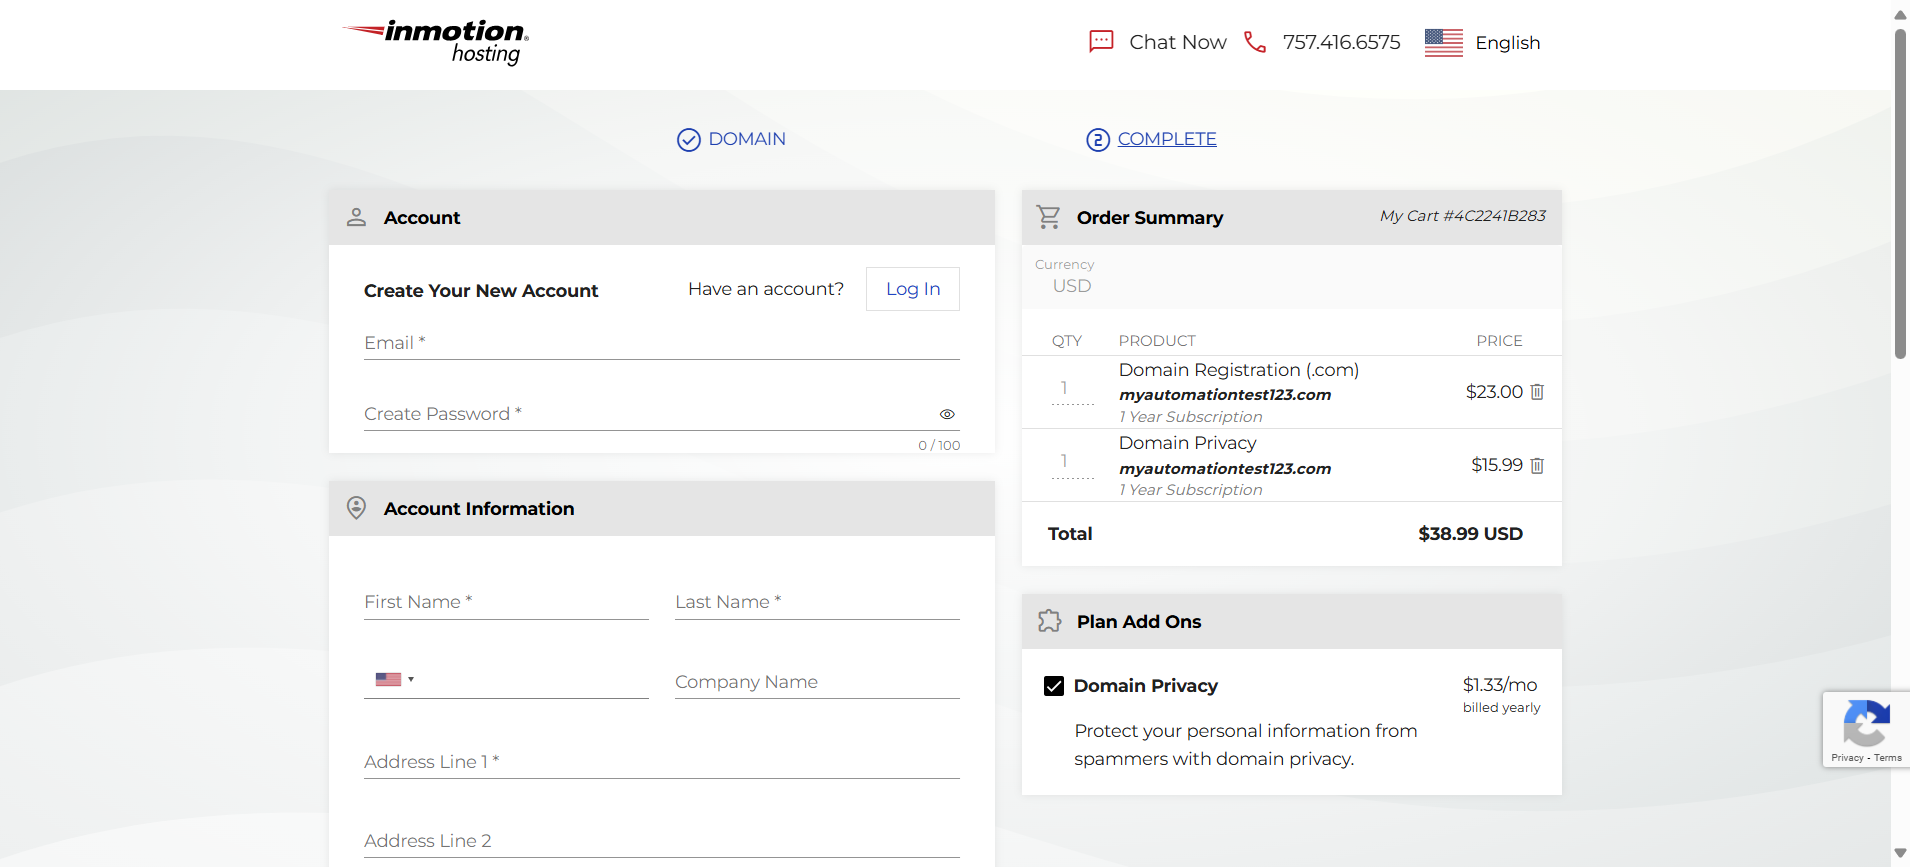
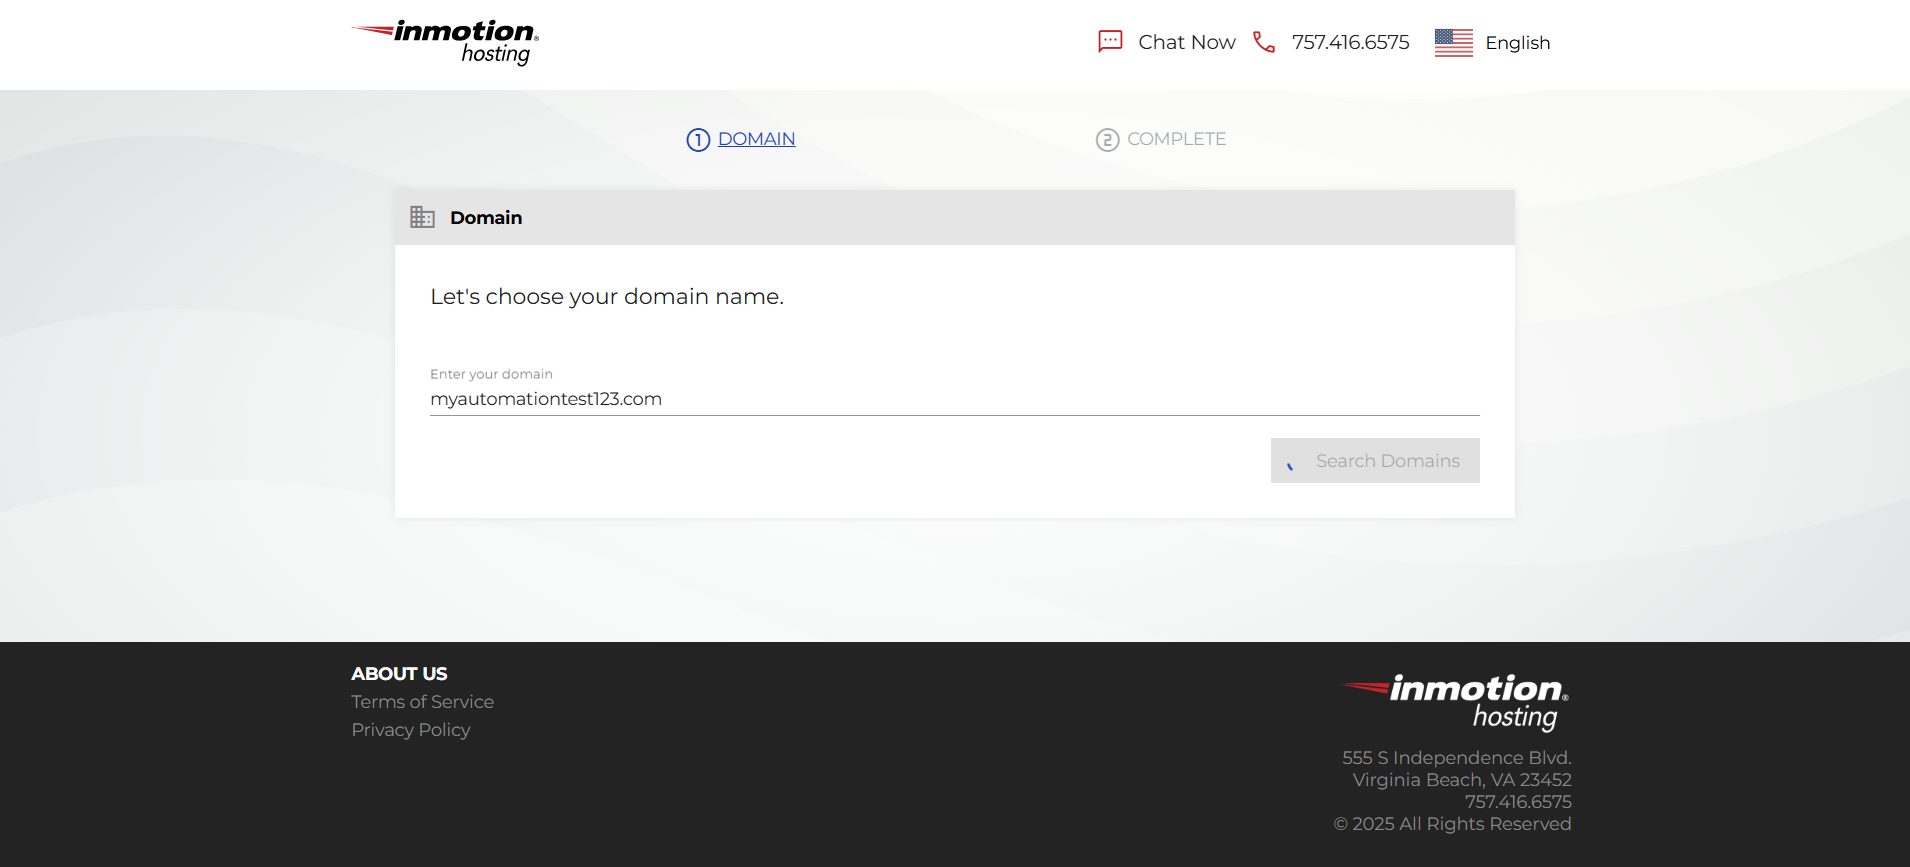
Initial commit

diff --git a/src/main/java/Framework/PageObjects/DomainPage.java b/src/main/java/Framework/PageObjects/DomainPage.java
@@ -20,20 +20,22 @@ public class DomainPage extends HomePage {
     WebElement searchButton;
     @FindBy (xpath = "(//span[@class='ctw-font-bold ctw-text-red-700'])[1]")
     WebElement invalidMessage;
-    public DomainSearchResultPage searchForDomain (String domainName) throws IOException {
+    public DomainSearchResultPage searchForDomain (String domainName) throws IOException, InterruptedException {
         waitElementToBeVisible(searchBox);
         searchBox.sendKeys(domainName);
         searchButton.click();
+        Thread.sleep(2000);
         getScreenshot("Domain search",driver);
         return new DomainSearchResultPage(driver);
     }
-    public void searchInvalidDomain(String domainName) throws IOException {
+    public void searchInvalidDomain(String domainName)  {
         waitElementToBeVisible(searchBox);
         searchBox.sendKeys(domainName);
         searchButton.click();
-        getScreenshot("Invalid domain search",driver);
     }
-    public String getErrorMessage(){
+    public String getErrorMessage() throws IOException {
+        waitElementToBeVisible(invalidMessage);
+        getScreenshot("Invalid domain search",driver);
         return invalidMessage.getText();
     }
 }

diff --git a/src/test/java/Framework/Tests/WebHostingTest.java b/src/test/java/Framework/Tests/WebHostingTest.java
@@ -17,7 +17,7 @@ public class WebHostingTest extends BaseTest {
     String domainPrice ="$38.99 USD";
     String totalPrice="$109.35 USD";
     @Test (priority = 1)
-    public void addDomainAndHostingPlanToCard() throws IOException {
+    public void addDomainAndHostingPlanToCard() throws IOException, InterruptedException {
         softAssert.assertTrue(homePage.getPageTitle().contains(pageTitle));
         DomainPage domainPage = homePage.clickOnDomains();
         DomainSearchResultPage domainSearchResultPage = domainPage.searchForDomain(domainName);

diff --git a/src/test/java/Framework/TestComponents/BaseTest.java b/src/test/java/Framework/TestComponents/BaseTest.java
@@ -38,8 +38,9 @@ public class BaseTest {
         return homePage;
     }
     @AfterMethod
-    public void tearDown(){
+    public void tearDown() throws InterruptedException {
         softAssert.assertAll();
+        Thread.sleep(3000);
         driver.quit();
     }
 
